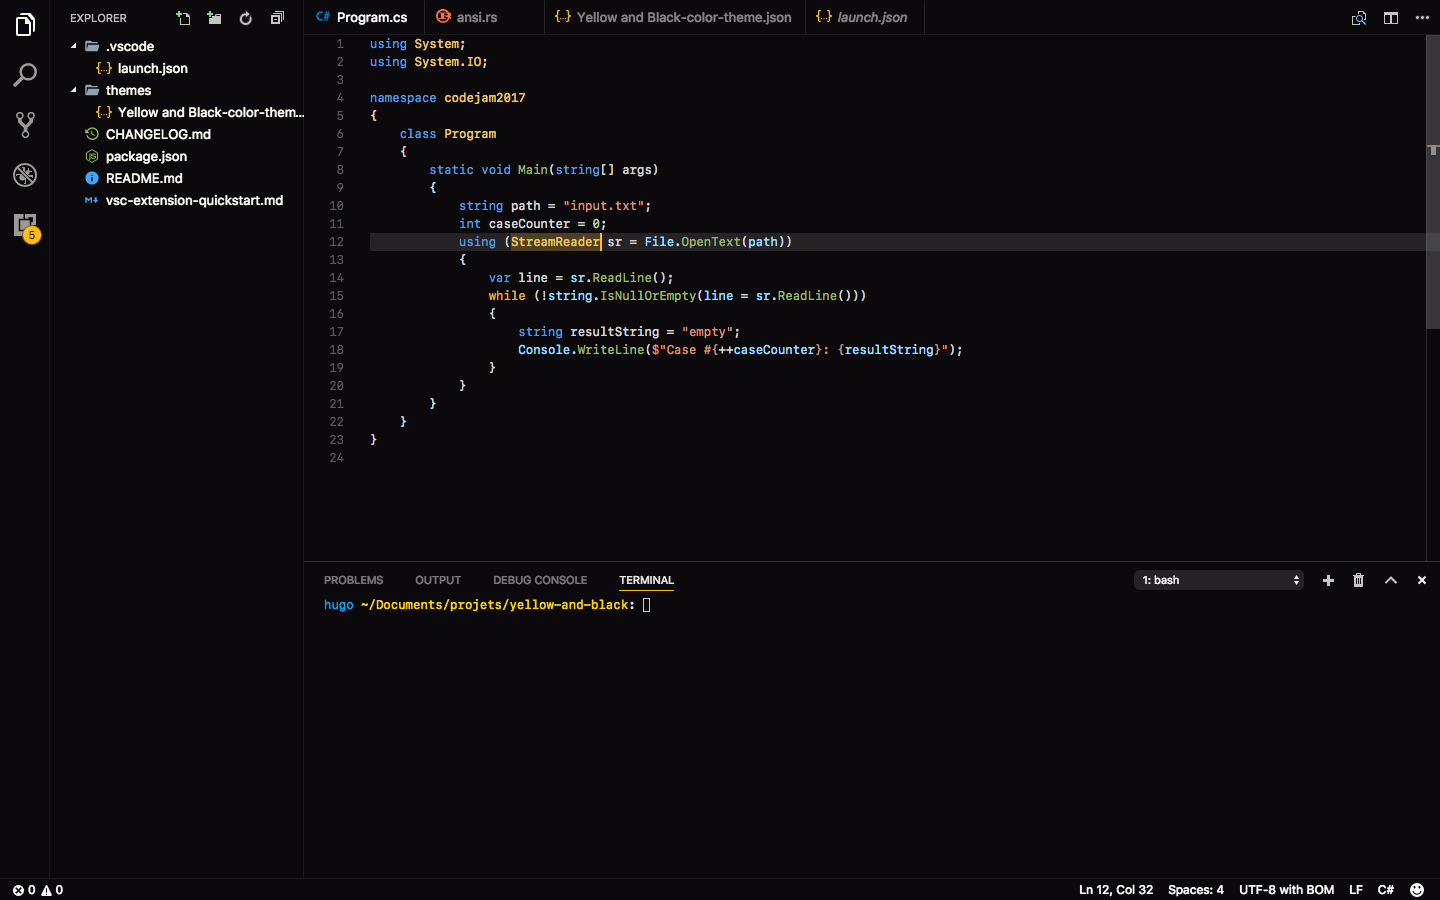
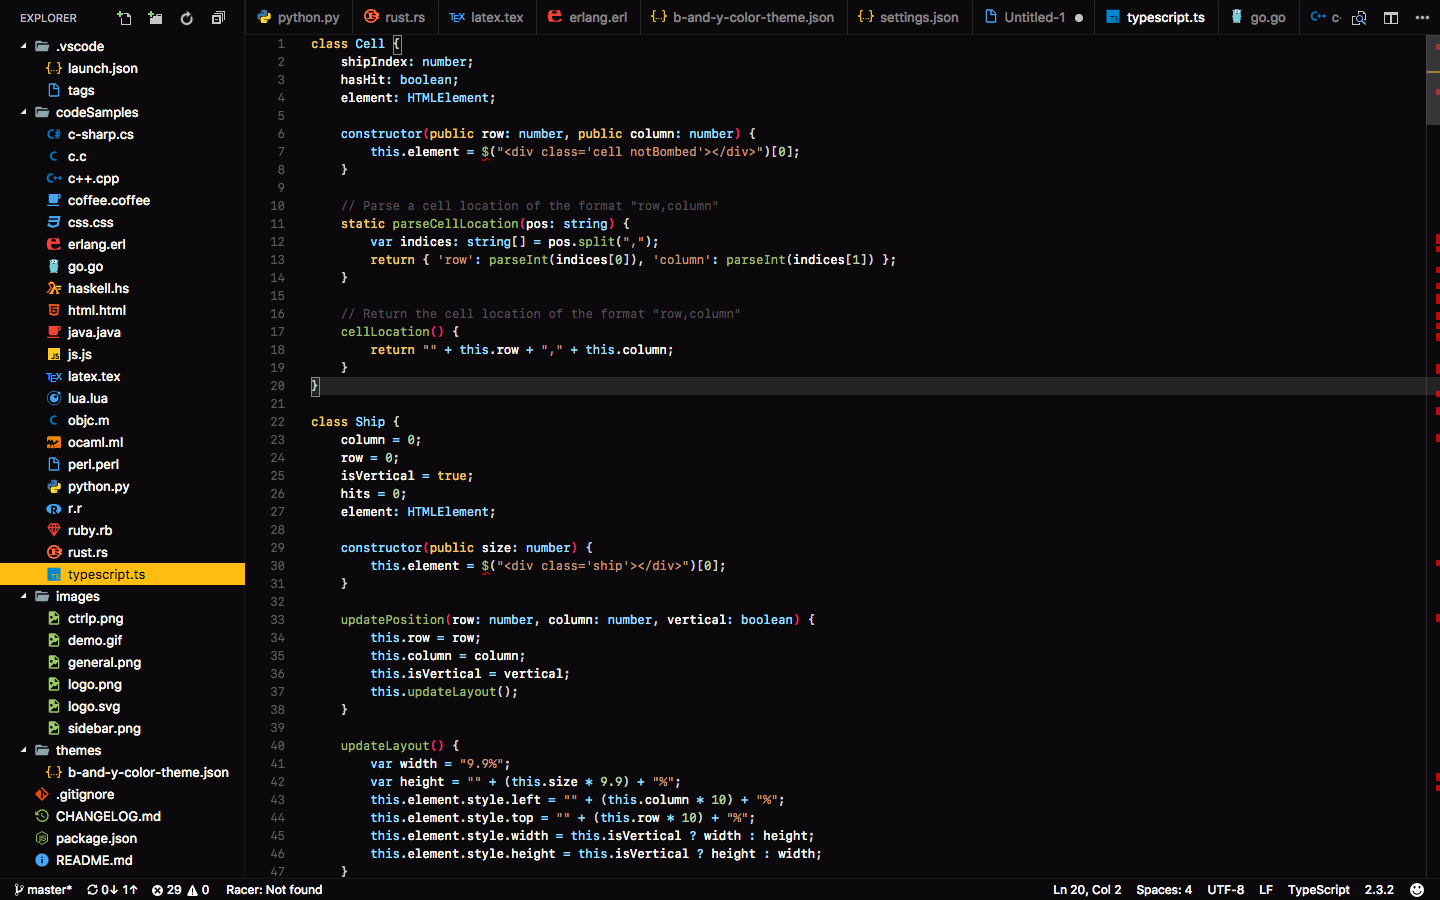
Change color and add scopes

diff --git a/README.md b/README.md
@@ -17,11 +17,20 @@ All comments/improvements are welcome, `enjoy` !
 # Overview
 ![alt](https://raw.githubusercontent.com/Swiiip/b-and-y/master/images/general.png)
 
-# Sidebar
-![alt](https://raw.githubusercontent.com/Swiiip/b-and-y/master/images/sidebar.png)
+# Languages
+## Python
+![alt](https://raw.githubusercontent.com/Swiiip/b-and-y/master/images/python.png)
+## C-Sharp
+![alt](https://raw.githubusercontent.com/Swiiip/b-and-y/master/images/csharp.png)
+## Go
+![alt](https://raw.githubusercontent.com/Swiiip/b-and-y/master/images/go.png)
+## Rust
+![alt](https://raw.githubusercontent.com/Swiiip/b-and-y/master/images/rust.png)
+## Typescript
+![alt](https://raw.githubusercontent.com/Swiiip/b-and-y/master/images/typescript.png)
 
 # Command palette
 ![alt](https://raw.githubusercontent.com/Swiiip/b-and-y/master/images/ctrlp.png)
 
-# Demo
-![alt](https://raw.githubusercontent.com/Swiiip/b-and-y/master/images/demo.gif)
+# Sidebar
+![alt](https://raw.githubusercontent.com/Swiiip/b-and-y/master/images/sidebar.png)

diff --git a/CHANGELOG.md b/CHANGELOG.md
@@ -1,4 +1,19 @@
 # Change Log
 
+## [0.2.0]
+- Changes base colors
+- Add scopes for languages:
+    * Python
+    * Rust
+    * Typescript
+    * Javascript
+    * C-Sharp
+    * Ruby
+    * Go
+- Update README.md with more pictures
+
+## [0.1.0]
+- Minor changes
+
 ## [0.0.1]
 - Initial release
